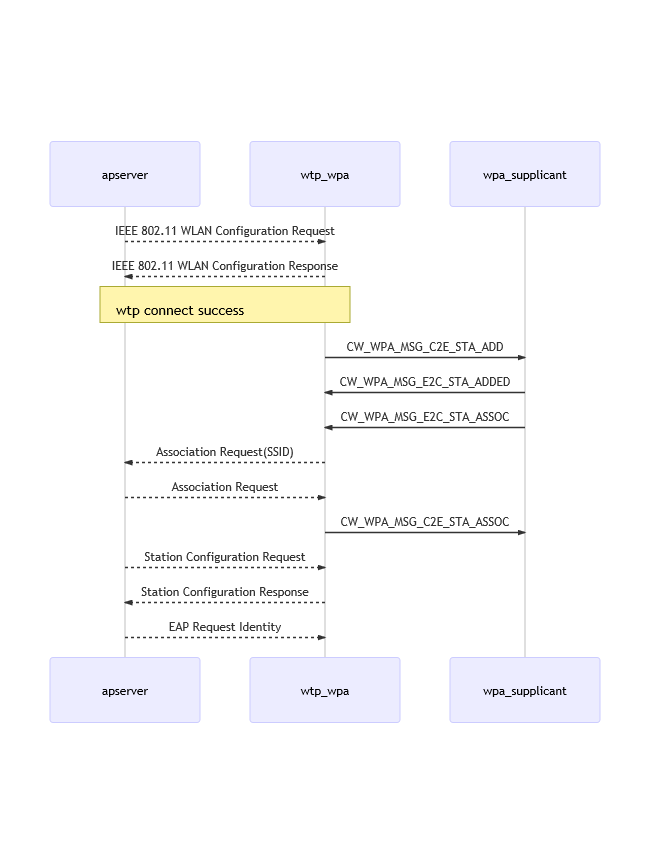
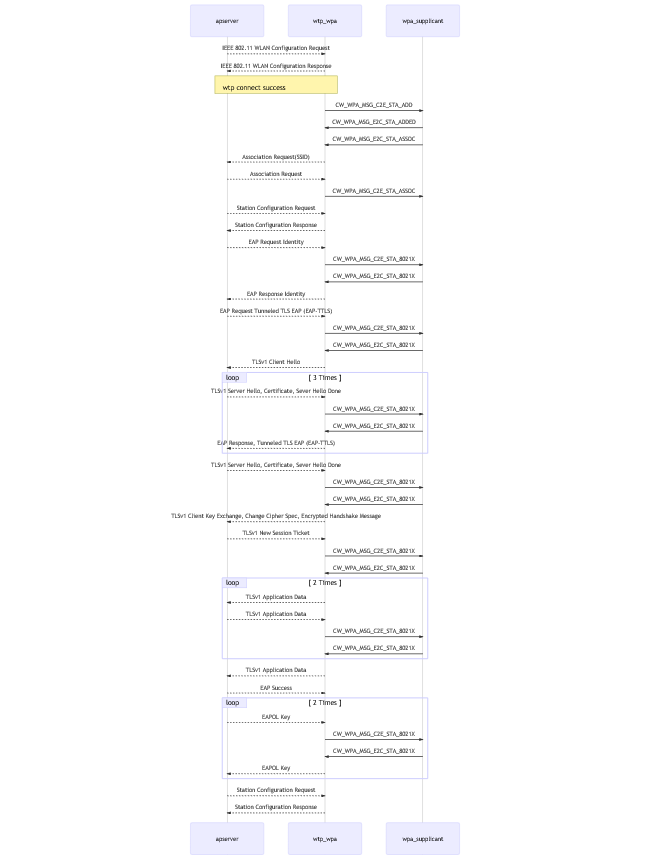
update diagram

diff --git a/README.md b/README.md
@@ -19,8 +19,8 @@ Modify config.json.
 
 ```
 {
-	"server_ip": "172.16.94.161",
-	"client_ip": "172.16.94.163"
+    "server_ip": "172.16.94.161",
+    "client_ip": "172.16.94.163"
 }
 ```
 
@@ -56,6 +56,57 @@ sequenceDiagram
     apserver-->>wtp_wpa: Station Configuration Request
     wtp_wpa-->>apserver: Station Configuration Response
     apserver-->>wtp_wpa: EAP Request Identity
+    wtp_wpa->>wpa_supplicant: CW_WPA_MSG_C2E_STA_8021X
+    wpa_supplicant->>wtp_wpa: CW_WPA_MSG_E2C_STA_8021X
+
+    wtp_wpa-->>apserver: EAP Response Identity
+    apserver-->>wtp_wpa: EAP Request Tunneled TLS EAP (EAP-TTLS)
+
+    wtp_wpa->>wpa_supplicant: CW_WPA_MSG_C2E_STA_8021X
+    wpa_supplicant->>wtp_wpa: CW_WPA_MSG_E2C_STA_8021X
+
+    wtp_wpa-->>apserver: TLSv1 Client Hello
+
+    loop 3 Times
+        apserver-->>wtp_wpa: TLSv1 Server Hello, Certificate, Sever Hello Done
+        
+        wtp_wpa->>wpa_supplicant: CW_WPA_MSG_C2E_STA_8021X
+        wpa_supplicant->>wtp_wpa: CW_WPA_MSG_E2C_STA_8021X
+
+        wtp_wpa-->>apserver: EAP Response, Tunneled TLS EAP (EAP-TTLS)
+    end
+
+    apserver-->>wtp_wpa: TLSv1 Server Hello, Certificate, Sever Hello Done
+    
+    wtp_wpa->>wpa_supplicant: CW_WPA_MSG_C2E_STA_8021X
+    wpa_supplicant->>wtp_wpa: CW_WPA_MSG_E2C_STA_8021X
+
+    wtp_wpa-->>apserver: TLSv1 Client Key Exchange, Change Cipher Spec, Encrypted Handshake Message
+    apserver-->>wtp_wpa: TLSv1 New Session Ticket
+
+    wtp_wpa->>wpa_supplicant: CW_WPA_MSG_C2E_STA_8021X
+    wpa_supplicant->>wtp_wpa: CW_WPA_MSG_E2C_STA_8021X
+
+    loop 2 Times
+        wtp_wpa-->>apserver: TLSv1 Application Data
+        apserver-->>wtp_wpa: TLSv1 Application Data
+
+        wtp_wpa->>wpa_supplicant: CW_WPA_MSG_C2E_STA_8021X
+        wpa_supplicant->>wtp_wpa: CW_WPA_MSG_E2C_STA_8021X
+    end
+
+    wtp_wpa-->>apserver: TLSv1 Application Data
+    apserver-->>wtp_wpa: EAP Success
+
+    loop 2 Times
+        apserver-->>wtp_wpa: EAPOL Key
+        wtp_wpa->>wpa_supplicant: CW_WPA_MSG_C2E_STA_8021X
+	    wpa_supplicant->>wtp_wpa: CW_WPA_MSG_E2C_STA_8021X
+	    wtp_wpa-->>apserver: EAPOL Key
+    end
+
+    apserver-->>wtp_wpa: Station Configuration Request
+    wtp_wpa-->>apserver: Station Configuration Response
 
 ```
 
